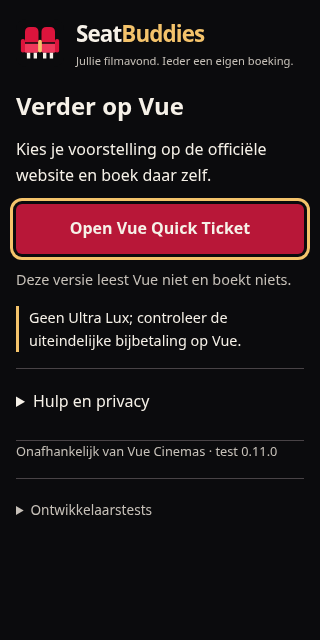
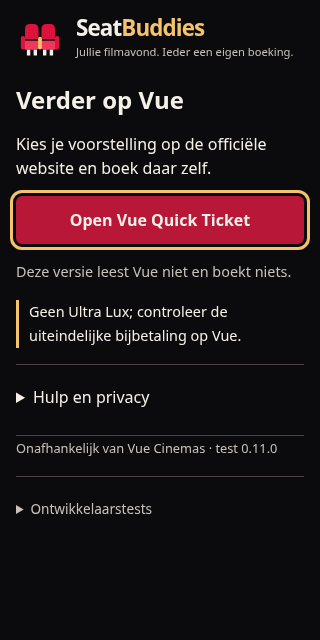
fix: align popup height and synchronize packaged upgrade with worker restart

diff --git a/tests/integration/extension.spec.ts b/tests/integration/extension.spec.ts
@@ -40,7 +40,7 @@ let packaged: Awaited<ReturnType<typeof unpackPackagedExtension>>;
 test.beforeAll(async () => {
   packaged = await unpackPackagedExtension();
   expect(packaged.sha256, 'Reviewed Operation Reboot inner runtime hash').toBe(
[2 lines of base64/hex data omitted]
   );
   console.log(
     `PACKAGED_EXTENSION ${packaged.version} SHA256 ${packaged.sha256}`,
@@ -1772,17 +1772,28 @@ test(
           force: true,
         });
       await cp(packaged.directory, baseline.directory, { recursive: true });
+      // Don't navigate a document while Chrome tears down its Response channel.
+      // A new worker for this exact extension is the reload/registration barrier.
+      await panel.close();
+      const upgradedWorkerReady = context.waitForEvent('serviceworker', {
+        predicate: (next) => next !== worker && new URL(next.url()).host === id,
+        timeout: 10_000,
+      });
       await worker.evaluate(() => {
         setTimeout(() => chrome.runtime.reload(), 50);
       });
-      await expect(async () => {
-        if (panel.isClosed()) panel = await context.newPage();
-        await gotoDeveloper(panel, `chrome-extension://${id}/sidepanel.html`);
-        expect(
-          await panel.evaluate(() => chrome.runtime.getManifest().version),
-        ).toBe(packaged.version);
-        await expect(panel.getByTestId('inactive-B')).toBeVisible();
-      }).toPass({ timeout: 10_000 });
+      const upgradedWorker = await upgradedWorkerReady;
+      expect(
+        await upgradedWorker.evaluate(
+          () => chrome.runtime.getManifest().version,
+        ),
+      ).toBe(packaged.version);
+      panel = await context.newPage();
+      await gotoDeveloper(panel, `chrome-extension://${id}/sidepanel.html`);
+      expect(
+        await panel.evaluate(() => chrome.runtime.getManifest().version),
+      ).toBe(packaged.version);
+      await expect(panel.getByTestId('inactive-B')).toBeVisible();
       remember = panel.getByRole('checkbox', {
         name: 'Onthoud mijn buddy-bijnamen op dit apparaat',
         exact: true,

diff --git a/src/sidepanel/style.css b/src/sidepanel/style.css
@@ -585,10 +585,16 @@ summary {
 .product-shell .product-home {
   padding: 0;
   margin: 0;
+  /* Chrome rounds the auto-sized popup height to whole CSS pixels. Keep the
+     default layout on a rem rhythm, including captions and paragraph margins. */
+  line-height: 1.5rem;
+}
+.product-home > p {
+  margin-block: 1rem;
 }
 .product-home h1 {
   font-size: 1.5rem;
-  line-height: 1.3;
+  line-height: 2rem;
   margin-top: 20px;
 }
 .primary-action {
@@ -624,4 +630,5 @@ summary {
 .developer-tools > summary {
   color: var(--muted);
   font-size: 0.85rem;
+  line-height: 1.5rem;
 }

diff --git a/docs/reboot-delivery.md b/docs/reboot-delivery.md
@@ -1,6 +1,6 @@
 # Operation Reboot — 0.11.0-test
 
-**22 oktober 2026.** Branch `feat/issue-27-sprint-12` vanaf ongewijzigde Sprint11 **764234ca94fbaafbeaa96281add7182ea704c728**. Alleen gestapelde draft naar `feat/issue-25-sprint-11`; main/PR-keten niet gewijzigd. Geen merge, publicatie, release, deploy of email.
+**22 oktober 2026.** Branch `feat/issue-27-sprint-12` vanaf ongewijzigde Sprint 11 **764234ca94fbaafbeaa96281add7182ea704c728**. Alleen gestapelde draft naar `feat/issue-25-sprint-11`; main/PR-keten niet gewijzigd. Geen merge, publicatie, release, deploy of email.
 
 De normale start is één compact scherm met één **Open Vue Quick Ticket**-link, geen administratie. De oude functies staan achter **Ontwikkelaarstests** en blijven optioneel bruikbaar. De rode knop is gerepareerd bij de oorzaak, niet verborgen als oplossing. [Review](security-review-sprint12.md) · [benchmark](ux-reset-benchmark.md) · [onderzoek](vue-integration-decision-2026-10.md) · [korte Mac-kaart](macos-test-guide.md).
 
@@ -8,40 +8,41 @@ De normale start is één compact scherm met één **Open Vue Quick Ticket**-lin
 
 ## Exacte testbuild
 
-Artifact **seatbuddies-chrome-test** bevat alleen **seatbuddies-0.11.0-chrome-test.zip** en diens **.zip.sha256**. De binnenste runtime-ZIP: **31 bestanden, 127404 bytes**. SHA256:
+Artifact **seatbuddies-chrome-test** bevat alleen **seatbuddies-0.11.0-chrome-test.zip** en diens **.zip.sha256**. De binnenste runtime-ZIP: **31 bestanden, 127441 bytes**. SHA256:
 
 ```text
[2 lines of base64/hex data omitted]
 ```
 
 Rootmanifest MV3 /0.11.0, popup, Side Panel, fictieve fixture, lokale assets/iconen16/32/48/128, LICENSE en vijf volledige MIT-notices. Uitsluitend sidePanel/storage, spanning, strikte CSP; geen host-/optional-permissies, content scripts, backend/netwerkcode of privédata. Actions-wrapperdigest is een ander object. Native CI downloadt de werkelijke wrapper en controleert beide lagen plus bovenstaande vaste inner hash vóór installatie. Geen renderer-double als native bewijs gepresenteerd.
 
 ## Uitvoeringsledger
 
-| Controle                                                                                                          | Werkelijk resultaat tot deze commit                                                                                                                                                                                                                                              |
-| ----------------------------------------------------------------------------------------------------------------- | -------------------------------------------------------------------------------------------------------------------------------------------------------------------------------------------------------------------------------------------------------------------------------- |
-| `npm ci --cache /tmp/seatbuddy-npm`                                                                               | PASS,218 packages; geen dependency toegevoegd/geüpgraded                                                                                                                                                                                                                         |
-| Flicker vóór reparatie                                                                                            | **FAIL**,10 vertraagde polls: disabled=true, opacity0.6, focusfalse                                                                                                                                                                                                              |
-| Flicker na reparatie                                                                                              | **PASS**,10×2seconden virtueel: disabledfalse, opacity1, focustrue;0 live-regionruis; echte actie wel disabled, oud antwoord genegeerd                                                                                                                                           |
-| Eerste volledige gebouwde renderercontrole                                                                        | **31 UI PASS**,1.4m; alle27 bestaande regressies behouden via bewuste ontwikkelaarstoegang                                                                                                                                                                                       |
-| Eerste packagingpoging                                                                                            | **FAIL**: audit herkende Vite's statische backtickimport niet; gericht gerepareerd met dezelfde exact-lokale targetcontrole en7 regressies                                                                                                                                       |
-| `npm run package` na auditreparatie                                                                               | PASS, bovenstaande31 runtimebestanden/hash; geen audit uitgezet                                                                                                                                                                                                                  |
-| Volledige lokale check / renderer / audit                                                                         | PASS: format,lint,strict TS,iconen,331unit in19bestanden,build;31UI opnieuw PASS(1.5m); nieuwe hulp/fallbackregressie afzonderlijk PASS; npm audit0 gerapporteerde kwetsbaarheden.                                                                                               |
-| Lokale native suite                                                                                               | **BLOCKED**: alle11 pogingen timeout vóór serviceworker; beheerd ExtensionInstallBlocklist=*, niet gewijzigd. Geen lokale native PASS.                                                                                                                                           |
-| Onafhankelijke ZIP-controle                                                                                       | PASS: CRC, SHA256,31 byte-identieke dist-bestanden,rootmanifest/notices; twee volledige builds leveren dezelfde inner hash.                                                                                                                                                      |
-| Eerste implementatie-CI,5269c77, [39860781659](https://github.com/johndobry89/SeatBuddy/actions/runs/39860781659) | Linux31UI/9native PASS,2native FAIL(3m41s): echte popup scrollt door intrinsieke breedte; oudere incognitohersteltest opent ontwikkelaartools niet. Min-breedte320 en expliciete ontwikkelaarstoegang gerepareerd; geen norm versoepeld. Mac-status afzonderlijk te controleren. |
-| Menselijke Mac/Windows/arm64/VoiceOver/Chrome116/Finder                                                           | **NOT_RUN**                                                                                                                                                                                                                                                                      |
-| Vue/account/checkout/boeking/betaling/annulering                                                                  | **NOT_RUN**, niet geactiveerd                                                                                                                                                                                                                                                    |
+| Controle                                                                                                          | Werkelijk resultaat tot deze commit                                                                                                                                                                                                                                                                                                                                                  |
+| ----------------------------------------------------------------------------------------------------------------- | ------------------------------------------------------------------------------------------------------------------------------------------------------------------------------------------------------------------------------------------------------------------------------------------------------------------------------------------------------------------------------------ |
+| `npm ci --cache /tmp/seatbuddy-npm`                                                                               | PASS,218 packages; geen dependency toegevoegd/geüpgraded                                                                                                                                                                                                                                                                                                                             |
+| Flicker vóór reparatie                                                                                            | **FAIL**,10 vertraagde polls: disabled=true, opacity0.6, focusfalse                                                                                                                                                                                                                                                                                                                  |
+| Flicker na reparatie                                                                                              | **PASS**,10×2 seconden virtueel: disabledfalse, opacity1, focustrue;0 live-regionruis; echte actie wel disabled, oud antwoord genegeerd                                                                                                                                                                                                                                              |
+| Eerste volledige gebouwde renderercontrole                                                                        | **31 UI PASS**,1.4m; alle27 bestaande regressies behouden via bewuste ontwikkelaarstoegang                                                                                                                                                                                                                                                                                           |
+| Eerste packagingpoging                                                                                            | **FAIL**: audit herkende Vite's statische backtickimport niet; gericht gerepareerd met dezelfde exact-lokale targetcontrole en7 regressies                                                                                                                                                                                                                                           |
+| `npm run package` na auditreparatie                                                                               | PASS, bovenstaande 31 runtimebestanden/hash; geen audit uitgezet                                                                                                                                                                                                                                                                                                                     |
+| Volledige lokale check / renderer / audit                                                                         | PASS: format,lint,strict TS,iconen,331 unit in 19 bestanden,build;31 UI opnieuw PASS(1.5m); nieuwe hulp/fallbackregressie afzonderlijk PASS; npm audit0 gerapporteerde kwetsbaarheden.                                                                                                                                                                                               |
+| Lokale native suite                                                                                               | **BLOCKED**: alle 11 pogingen timeout vóór serviceworker; beheerd ExtensionInstallBlocklist=*, niet gewijzigd. Geen lokale native PASS.                                                                                                                                                                                                                                              |
+| Onafhankelijke ZIP-controle                                                                                       | PASS: CRC, SHA256, 31 byte-identieke dist-bestanden,rootmanifest/notices; twee volledige builds leveren dezelfde inner hash.                                                                                                                                                                                                                                                         |
+| Eerste implementatie-CI,5269c77, [39860781659](https://github.com/johndobry89/SeatBuddy/actions/runs/39860781659) | Linux31 UI/9 native PASS,2 native FAIL(3m41s): echte popup scrollt door intrinsieke breedte; oudere incognitohersteltest opent ontwikkelaartools niet. Min-breedte320 en expliciete ontwikkelaarstoegang gerepareerd; geen norm versoepeld. Mac 31 UI PASS; native geannuleerd door de vervangende correctiepush na 9m08s, geen native conclusie.                                    |
+| Tweede CI d0bf7f8, [39861828658](https://github.com/johndobry89/SeatBuddy/actions/runs/39861828658)               | Linux 31 UI / 9 native PASS, 2 native FAIL (3m01s): popup nu 335px breed maar 1px overflow (541/540); upgradeproef Playwright Response-channel race. Layout op rem-ritme en expliciete nieuwe-workerbarrière toegevoegd; geen overflow verborgen of assertions versoepeld. Mac 31 UI / 6 native PASS, 1 native FAIL (7m17s): dezelfde 541/540-pixelafwijking; upgrade daar geslaagd. |
+| Menselijke Mac/Windows/arm64/VoiceOver/Chrome 116/Finder                                                          | **NOT_RUN**                                                                                                                                                                                                                                                                                                                                                                          |
+| Vue/account/checkout/boeking/betaling/annulering                                                                  | **NOT_RUN**, niet geactiveerd                                                                                                                                                                                                                                                                                                                                                        |
 
 ## Gemeten fictief ontwerp, geen echte tijdwinst
 
-Eerste daadwerkelijke benchmarkoutput, uitsluitend oorspronkelijke lokale fixtures, Chromium154: baseline twee eigen contexten **3+3klikken**,0keys/velden/modals/scrollEvents,193+157ms automatisering. Compact prototype **3klikken**,0keys/modals/scrollEvents,178ms automatisering; de gehele oudere fixturepagina bevat7optionele velden, prototype zelf **0 vereiste velden**. Milliseconden zijn machineafhankelijk, exclusief opstart/login en **geen menselijke tijdmeting**. De gecontroleerde data maken de kandidaat opzettelijk makkelijk; geen claim tegenover echte Vue. Werkelijke gelijkwaardige taak voor beide **HUMAN_NOT_RUN**. [Volledige methode/killcriteria](ux-reset-benchmark.md).
+Eerste daadwerkelijke benchmarkoutput, uitsluitend oorspronkelijke lokale fixtures, Chromium154: baseline twee eigen contexten **3+3 klikken**,0 keys/velden/modals/scrollEvents,193+157ms automatisering. Compact prototype **3 klikken**,0 keys/modals/scrollEvents,178ms automatisering; de gehele oudere fixturepagina bevat7optionele velden, prototype zelf **0 vereiste velden**. Milliseconden zijn machineafhankelijk, exclusief opstart/login en **geen menselijke tijdmeting**. De gecontroleerde data maken de kandidaat opzettelijk makkelijk; geen claim tegenover echte Vue. Werkelijke gelijkwaardige taak voor beide **HUMAN_NOT_RUN**. [Volledige methode/killcriteria](ux-reset-benchmark.md).
 
 ## Installeren
 
-1. Kies de geslaagde exacte Sprint12-run via [Actions](https://github.com/johndobry89/SeatBuddy/actions?query=branch%3Afeat%2Fissue-27-sprint-12), controleer beide platformconclusies en download het artifact.
-2. Pak de wrapper uit. Vergelijk `shasum -a 256 seatbuddies-0.11.0-chrome-test.zip` met alle64 tekens hierboven en de `.zip.sha256`. Bij afwijking stoppen. Pak de binnenste ZIP uit.
-3. Chrome116+ → chrome://extensions → ontwikkelaarsmodus → Uitgepakte extensie laden → vaste map met manifest.json direct aan de root. Controleer0.11.0 en alleen sidePanel/storage; pinicoon. Geen extra websiterechten of incognito nodig. Beleidblokkade niet omzeilen.
+1. Kies de geslaagde exacte Sprint 12-run via [Actions](https://github.com/johndobry89/SeatBuddy/actions?query=branch%3Afeat%2Fissue-27-sprint-12), controleer beide platformconclusies en download het artifact.
+2. Pak de wrapper uit. Vergelijk `shasum -a 256 seatbuddies-0.11.0-chrome-test.zip` met alle 64 tekens hierboven en de `.zip.sha256`. Bij afwijking stoppen. Pak de binnenste ZIP uit.
+3. Chrome 116+ → chrome://extensions → ontwikkelaarsmodus → Uitgepakte extensie laden → vaste map met manifest.json direct aan de root. Controleer 0.11.0 en alleen sidePanel/storage; pin het icoon. Geen extra websiterechten of incognito nodig. Beleidblokkade niet omzeilen.
 4. Popup → **Open Vue Quick Ticket**. Side Panel optioneel onder **Hulp en privacy → Open boekingsassistent**; bij API-fout normale-vensterfallback. Ieder eigen account/sessie; deze knop opent geen apart B-account. Geen live boeking vereist voor de korte proef.
 
 ## PR-overdracht

diff --git a/docs/sprint12-pr.md b/docs/sprint12-pr.md
@@ -1,6 +1,6 @@
-# Draft PR — Sprint12 / Operation Reboot
+# Draft PR — Sprint 12 / Operation Reboot
 
-**Titel:** Sprint12: compacte Vue-start, gerepareerde pollingknop en eerlijk product-NO-GO
+**Titel:** Sprint 12: compacte Vue-start, gerepareerde pollingknop en eerlijk product-NO-GO
 
 **Base:** `feat/issue-25-sprint-11`
 
@@ -12,9 +12,9 @@
 
 De eigenaar kon0.10.1 op Mac installeren en zien, maar de lange administratieve flow faalde productmatig en Start simulatie knipperde. De normale popup/Side Panel hebben nu één compact scherm met één officiële Quick Ticket-link, zonder filmformulier, buddybeheer, technische status of polling. Alle eerdere tools blijven bewust bereikbaar achter Ontwikkelaarstests; sluiten behoudt onopgeslagen concepten en pauzeert verversen.
 
-De oorzaak van het knipperen is daadwerkelijk FAIL→PASS gereproduceerd: GET_STATE deelt geen disabled-status meer met mutaties. Tien vertraagde2seconden-polls houden opacity/focus stabiel; echte acties blijven correct disabled. Late replies/scope disposal zijn afgeschermd. Packaging accepteert statische lokale Vite-backtickimports met dezelfde exact-targetvalidatie; expressies, externe/ontsnappende/ontbrekende targets blijven geblokkeerd met regressies.
+De oorzaak van het knipperen is daadwerkelijk FAIL→PASS gereproduceerd: GET_STATE deelt geen disabled-status meer met mutaties. Tien vertraagde2 seconden-polls houden opacity/focus stabiel; echte acties blijven correct disabled. Late replies/scope disposal zijn afgeschermd. Packaging accepteert statische lokale Vite-backtickimports met dezelfde exact-targetvalidatie; expressies, externe/ontsnappende/ontbrekende targets blijven geblokkeerd met regressies.
 
-Klein alleen-fictief toekomstontwerp hergebruikt de ZERO EXTRA-engine: bestaande voorstelling/stoelpaar → onafhankelijke A/B-reviews in3acties,30seconden geldig. Geen nieuwe administratie in de productroute. Vijf OSS-bronnen onderzocht, niets gekopieerd/geïnstalleerd; officiële bronnen met403 en issue-ledgergegevens expliciet onderscheiden. Kort Vue-toestemmingsconcept voorbereid, niet verstuurd.
+Klein alleen-fictief toekomstontwerp hergebruikt de ZERO EXTRA-engine: bestaande voorstelling/stoelpaar → onafhankelijke A/B-reviews in 3 acties,30 seconden geldig. Geen nieuwe administratie in de productroute. Vijf OSS-bronnen onderzocht, niets gekopieerd/geïnstalleerd; officiële bronnen met403 en issue-ledgergegevens expliciet onderscheiden. Kort Vue-toestemmingsconcept voorbereid, niet verstuurd.
 
 ## Gates en veiligheid
 
@@ -24,10 +24,10 @@ Exact sidePanel/storage, spanning en strikte CSP. Geen hosts/content scripts/act
 
 ## Validatie en artifact
 
-Zie [concreet uitvoeringsledger](reboot-delivery.md) voor exacte runs/head/conclusies en hash.331 unit/contract en31 UI zijn de verwachte suiteomvang na de daadwerkelijk uitgevoerde regressies; platformbewijs wordt uitsluitend op afgeronde runs geclaimd. Native Linux volledige11, Mac Intel7smoke inclusief nieuwe product-shellproef; lokale beheerde installaties blijven afzonderlijk BLOCKED. Tests installeren echte Actions-wrapper na buitenste digest + inner checksum, geen dist-vervanging. Geen menselijke Finder/arm64/VoiceOver of live Vue-PASS.
+Zie [concreet uitvoeringsledger](reboot-delivery.md) voor exacte runs/head/conclusies en hash.331 unit/contract en31 UI zijn de verwachte suiteomvang na de daadwerkelijk uitgevoerde regressies; platformbewijs wordt uitsluitend op afgeronde runs geclaimd. Native Linux volledige11, Mac Intel7 smoke inclusief nieuwe product-shellproef; lokale beheerde installaties blijven afzonderlijk BLOCKED. Tests installeren echte Actions-wrapper na buitenste digest + inner checksum, geen dist-vervanging. Geen menselijke Finder/arm64/VoiceOver of live Vue-PASS.
 
[2 lines of base64/hex data omitted]
 
 ## Beoordelen
 
-[Benchmark](ux-reset-benchmark.md), [Vue-besluit](vue-integration-decision-2026-10.md), [securityreview](security-review-sprint12.md), [ADR010](decisions/ADR-010-product-shell-reboot.md), [Mac-kaart](macos-test-guide.md). Overige PR-keten/main blijven ongewijzigd; deze draft niet mergen zonder afzonderlijke opdracht.
+[Benchmark](ux-reset-benchmark.md), [Vue-besluit](vue-integration-decision-2026-10.md), [securityreview](security-review-sprint12.md), [ADR-010](decisions/ADR-010-product-shell-reboot.md), [Mac-kaart](macos-test-guide.md). Overige PR-keten/main blijven ongewijzigd; deze draft niet mergen zonder afzonderlijke opdracht.

diff --git a/docs/security-review-sprint12.md b/docs/security-review-sprint12.md
@@ -1,4 +1,4 @@
-# Sprint12 — defect review and privacy/security boundaries
+# Sprint 12 — defect review and privacy/security boundaries
 
 Review date22 October2026. Scope: S11 `764234ca94fbaafbeaa96281add7182ea704c728` → Operation Reboot. No formal independent security audit or human Mac acceptance implied. Owner report is **USER_REPORTED installed/rendered, UX FAIL**. New version human acceptance NOT_RUN.
 
@@ -28,12 +28,16 @@ Manifest stays exactly sidePanel/storage, spanning, no hosts/optional permission
 
 ## 5. Real packaged Chrome caught intrinsic popup width — repaired, not waived
 
-Initial Linux CI [39860781659](https://github.com/johndobry89/SeatBuddy/actions/runs/39860781659) on5269c77 passed31renderer/9native but failed2native cases. The new real action-popup test measured871px document height against600px available: the `width:360px; max-width:100vw` body can feed Chrome's initial tiny popup viewport back into its intrinsic-size calculation. Fixed the popup body's minimum intrinsic width to320px, preserving responsive320/360/420 behavior. Same no-scroll assertion retained; bounds diagnostics strengthened. The mock renderer had a fixed viewport, so it did not expose this browser-owned sizing defect.
+Initial Linux CI [39860781659](https://github.com/johndobry89/SeatBuddy/actions/runs/39860781659) on5269c77 passed31renderer/9 native but failed2 native cases. The new real action-popup test measured871px document height against600px available: the `width:360px; max-width:100vw` body can feed Chrome's initial tiny popup viewport back into its intrinsic-size calculation. Fixed the popup body's minimum intrinsic width to320px, preserving responsive320/360/420 behavior. Same no-scroll assertion retained; bounds diagnostics strengthened. The mock renderer had a fixed viewport, so it did not expose this browser-owned sizing defect.
 
 The older incognito normal-window recovery test expected the old planner immediately after opening the recovered document. It now explicitly opens Ontwikkelaarstests before asserting the preserved legacy planner/privacy behavior. The new compact default itself was correct in that path. No sender/storage assertion removed. HTML titles also now describe the actual default. Subsequent runtime hash differs; only the current reviewed hash in delivery is installable evidence.
 
+Second Linux CI [39861828658](https://github.com/johndobry89/SeatBuddy/actions/runs/39861828658) confirmed the width fix (335px) but caught fractional auto-height rounding:541px document versus540px native viewport. The compact home's line heights/paragraph margins and the developer summary now use a rem rhythm that produces whole default CSS-pixel layout heights. No overflow hiding, geometry tolerance or removed assertion. Relative sizing still follows the root font.
+
+That run also surfaced an intermittent Playwright “Response object not bound” error during the pinned upgrade test. The test previously navigated an old extension document while runtime.reload tore it down. It now closes only the test panel before reload, waits for a new serviceworker for the exact extension ID, verifies its manifest, then opens a fresh panel. The bound fixture stays open until Chrome reload closes it, so the upgrade's binding-clear assertions remain meaningful. All original consent/storage/generation/replay assertions remain. This repairs the test actor's lifecycle race, not a fabricated production data bug. Subsequent CI establishes whether these corrections pass.
+
 ## Verification and residual risk
 
-Actual commands, counts, checksum, source SHA and CI conclusions are recorded in [delivery](reboot-delivery.md), not inferred from static review. Local native extension install remains BLOCKED by managed policy; no bypass. Native CI uses its own disposable profile and distributed digest-verified artifact; intercepted official-link intent never fetches live Vue. Mac Intel is the smoke subset, not Apple Silicon/VoiceOver/Finder or real Chrome116 proof.
+Actual commands, counts, checksum, source SHA and CI conclusions are recorded in [delivery](reboot-delivery.md), not inferred from static review. Local native extension install remains BLOCKED by managed policy; no bypass. Native CI uses its own disposable profile and distributed digest-verified artifact; intercepted official-link intent never fetches live Vue. Mac Intel is the smoke subset, not Apple Silicon/VoiceOver/Finder or real Chrome 116 proof.
 
 **PRODUCT_VALUE NO-GO** despite technical tests: official data/read-only permission absent, real-task comparison HUMAN_NOT_RUN, owner previously rejected administration. G0 remains NO-GO/INCONCLUSIVE. Remaining principal risk is building an unnecessary companion. Stop feature growth pending a lawful useful source. No merges, releases, publication or emails.

diff --git a/README.md b/README.md
@@ -32,7 +32,7 @@ Workerherstart: nooit stoelen, checks, categorie, kosten, buddyselectie, samenmo
 
 ## Bouwen en controleren
 
-Node24 LTS (`.nvmrc`), geen secrets:
+Node 24 LTS (`.nvmrc`), geen secrets:
 
 ```sh
 npm ci
@@ -45,7 +45,7 @@ npm audit
 
 `dist/` is direct unpacked laadbaar; `build/seatbuddies-0.11.0-chrome-test.zip` bevat uitsluitend runtime, iconen, LICENSE en vijf volledige MIT-notices. Reproduceerbare ZIP/CRC/checksum, gegenereerde imports/CSP/netwerkprimitieven en minimale rechten worden gecontroleerd. Geen code/assets/dependencies van de onderzochte projecten opgenomen.
 
-Native tests installeren de echte gedownloade Actions-wrapper na controle van buitenste digest én binnenste checksum. Linux draait de volledige native suite; macOS Intel de @smoke-subset, beide met de nieuwe compacte-shellproef. Native upgradeproef gebruikt de vaste Sprint10-baseline uit de workflow. Linux headed: `HEADED=1 xvfb-run -a npm run test:e2e`; Mac: `HEADED=1 npm run test:smoke:chrome`. Installatie van testbrowser: `npm exec playwright install -- --with-deps chromium` (Linux), `npm exec playwright install -- chromium` (Mac).
+Native tests installeren de echte gedownloade Actions-wrapper na controle van buitenste digest én binnenste checksum. Linux draait de volledige native suite; macOS Intel de @smoke-subset, beide met de nieuwe compacte-shellproef. Native upgradeproef gebruikt de vaste Sprint 10-baseline uit de workflow. Linux headed: `HEADED=1 xvfb-run -a npm run test:e2e`; Mac: `HEADED=1 npm run test:smoke:chrome`. Installatie van testbrowser: `npm exec playwright install -- --with-deps chromium` (Linux), `npm exec playwright install -- chromium` (Mac).
 
 Deze beheerde cloud blokkeert unpacked extensies. Lokaal rendererbewijs: `CHROMIUM_PATH=/usr/bin/chromium XDG_CONFIG_HOME=/tmp/seatbuddy-chromium-config XDG_CACHE_HOME=/tmp/seatbuddy-chromium-cache npm run test:ui`. Native lokale blokkade is geen PASS; CI wordt afzonderlijk gelezen. [Feasibility](docs/feasibility.md) en [oplevering](docs/reboot-delivery.md) bevatten werkelijk uitgevoerde checks en grenzen.
 

diff --git a/docs/macos-test-guide.md b/docs/macos-test-guide.md
@@ -2,7 +2,7 @@
 
 **Nieuwe menselijke proef NOT_RUN.** De eerdere 0.10.1 installeerde/renderde volgens de eigenaar, maar **UX FAIL**. Je hoeft die lange proef niet te herhalen. Dit is optioneel, na de bouw; alleen een eigen toegestaan testprofiel. Geen Vue-login of echte boeking nodig.
 
-1. Download **seatbuddies-chrome-test** uit de juiste geslaagde [Sprint12-run](reboot-delivery.md). Pak de Actions-wrapper uit. Controleer `shasum -a 256 seatbuddies-0.11.0-chrome-test.zip` tegen `.zip.sha256` én de opleverhash. Pak de binnenste ZIP uit. Chrome → `chrome://extensions` → Ontwikkelaarsmodus → Uitgepakte extensie laden → vaste map met rootmanifest. Versie0.11.0, uitsluitend sidePanel/storage. Bij afwijking of beleidblokkade stoppen, niet omzeilen. Incognitotoegang uit voor deze proef.
+1. Download **seatbuddies-chrome-test** uit de juiste geslaagde [Sprint 12-run](reboot-delivery.md). Pak de Actions-wrapper uit. Controleer `shasum -a 256 seatbuddies-0.11.0-chrome-test.zip` tegen `.zip.sha256` én de opleverhash. Pak de binnenste ZIP uit. Chrome → `chrome://extensions` → Ontwikkelaarsmodus → Uitgepakte extensie laden → vaste map met rootmanifest. Versie0.11.0, uitsluitend sidePanel/storage. Bij afwijking of beleidblokkade stoppen, niet omzeilen. Incognitotoegang uit voor deze proef.
 2. Open de popup. Zie je zonder scrollen één **Open Vue Quick Ticket**-knop, zonder formulier, buddykaarten of statuscodes? De knop opent alleen de officiële openbare homepage; verder niets. Niet inloggen/boeken voor deze proef. Houd de start twintig seconden open: geen knipperen. Side Panel optioneel via **Hulp en privacy → Open boekingsassistent**. Bij fout: **Open assistent in normaal venster**; noteer fallback afzonderlijk.
 3. Is dit werkelijk nuttiger dan je eigen Vue-bladwijzer/twee tabs, of alleen rustiger? **Geen voordeel is een geldig resultaat.** Advies blijft stoppen met nieuwe functies totdat een toegestane Vue-koppeling echte winst kan leveren.
 
